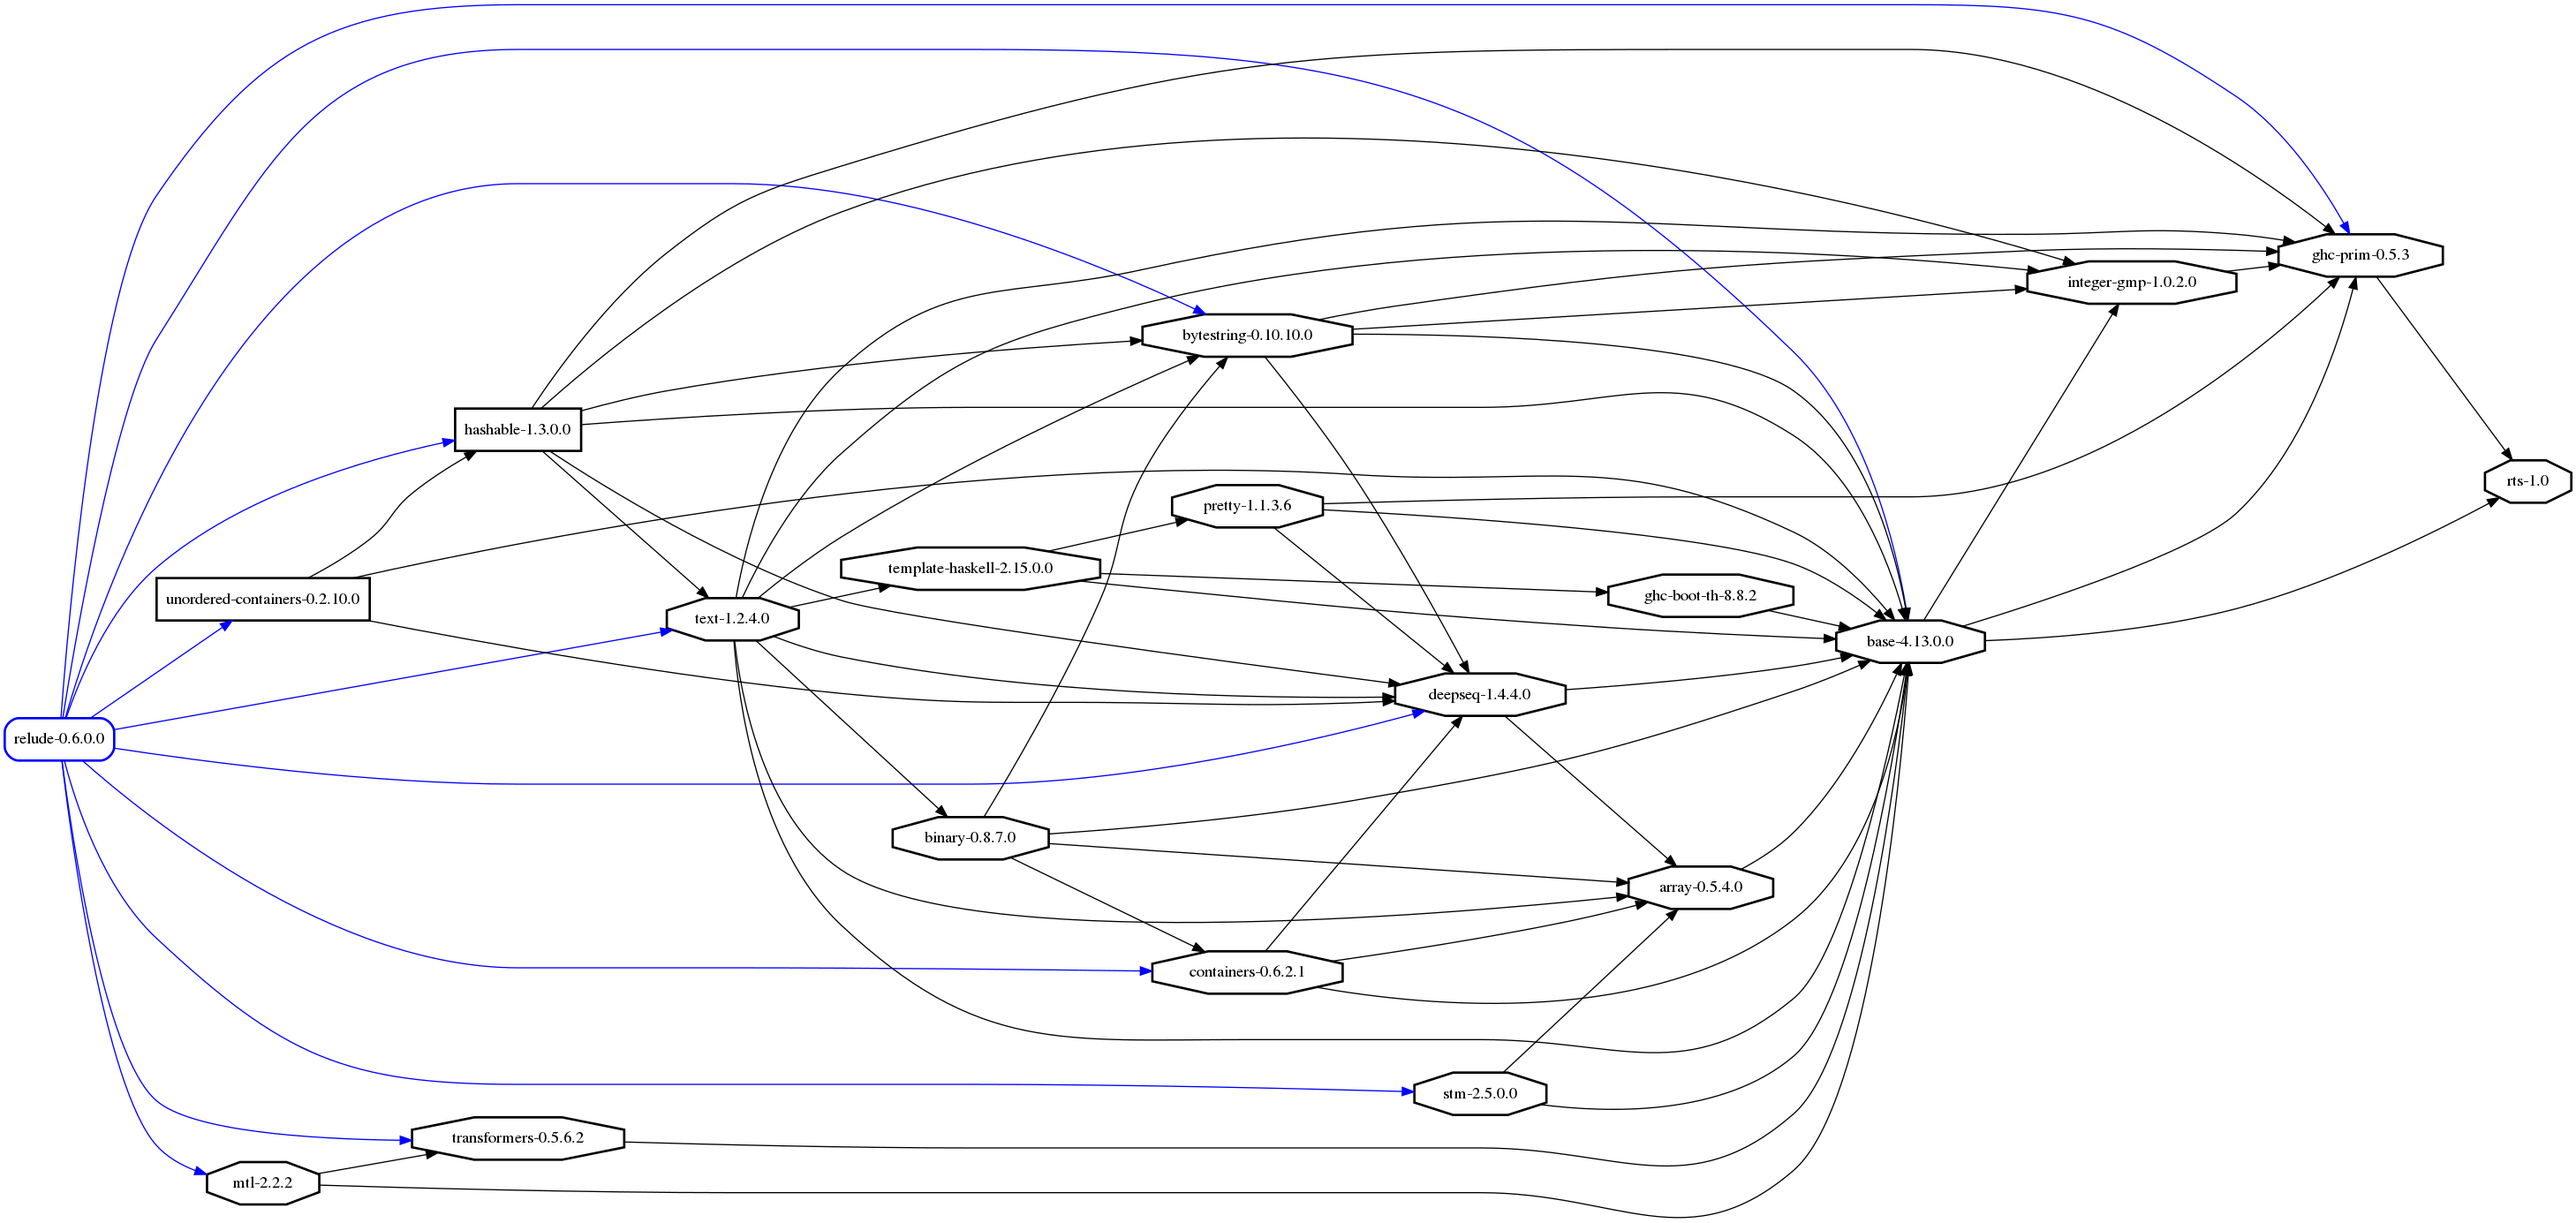
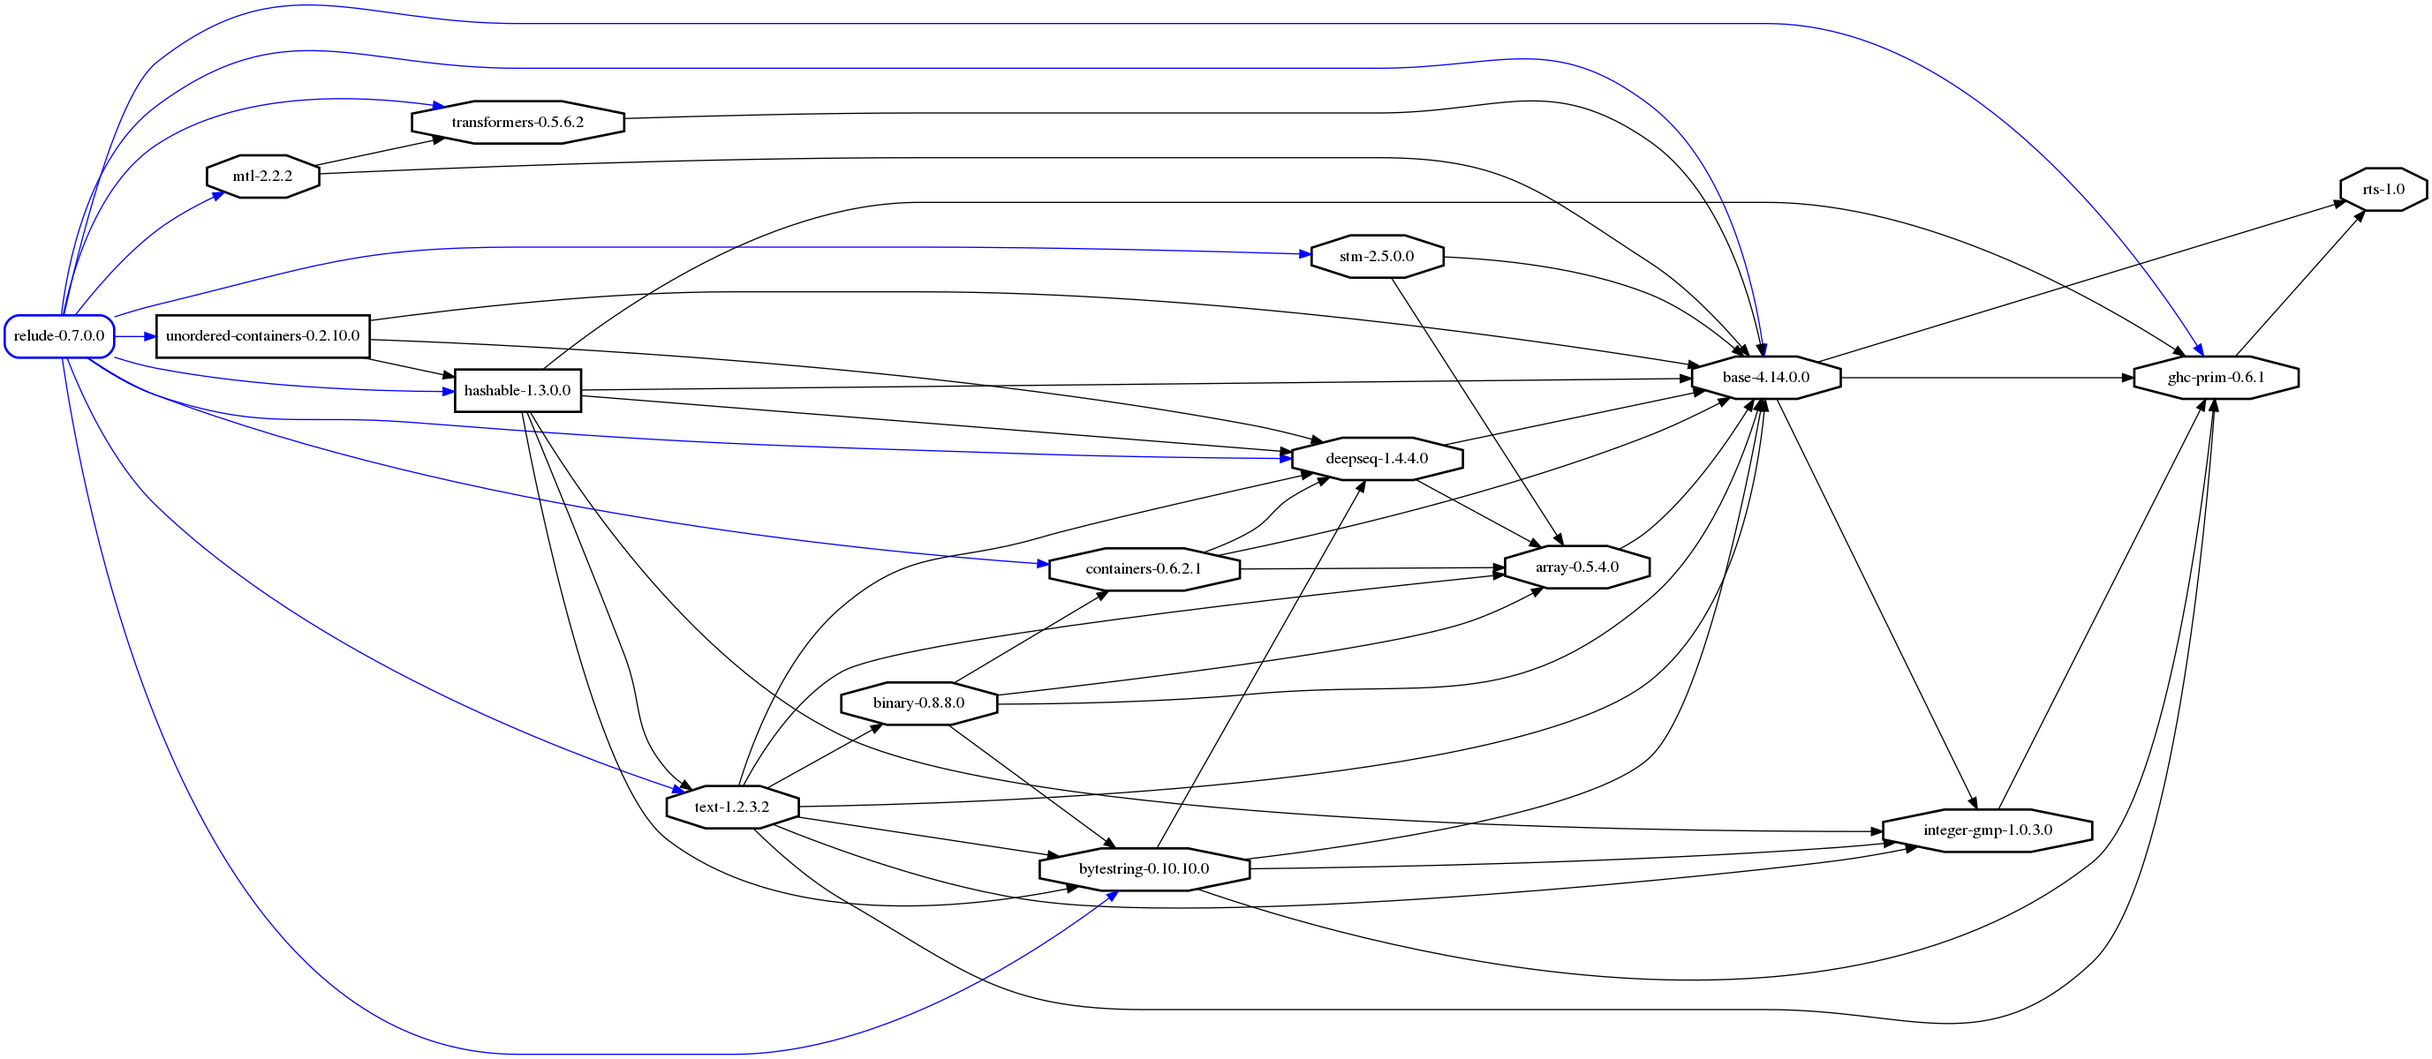
Update dependency graph, patch instructions (#298)

diff --git a/README.md b/README.md
@@ -660,7 +660,7 @@ For the latest `relude` version, this can be achieved by executing the following
 two commands on your CI:
 
 ```yaml
-curl https://raw.githubusercontent.com/kowainik/relude/v0.6.0.0/.hlint.yaml -o .hlint-relude.yaml
+curl https://raw.githubusercontent.com/kowainik/relude/v0.7.0.0/.hlint.yaml -o .hlint-relude.yaml
 curl -sSL https://raw.github.com/ndmitchell/neil/master/misc/travis.sh | sh -s -- hlint -h .hlint-relude.yaml .
 ```
 
@@ -742,7 +742,7 @@ Dhall 16.0.0 is required, so make sure that the previous command installed
 To generate `hlint` file:
 
 ```shell
-$ dhall-to-yaml --omitNull <<< './hlint/hlint.dhall' > .hlint.yaml
+$ dhall-to-yaml <<< './hlint/hlint.dhall' > .hlint.yaml
 ```
 
 Check that you have generated valid `.hlint.yaml` file without parse errors:
@@ -754,3 +754,19 @@ $ hlint test/Spec.hs
 See our blog post where we describe the details of the implementation for this solution:
 
 * [Dhall To HLint](https://kowainik.github.io/posts/2018-09-09-dhall-to-hlint)
+
+### Producing dependency graph
+
+Install `cabal-plan` first:
+
+```shell
+$ cabal v2-install cabal-plan
+$ cabal-plan --version
+cabal-plan 0.6.2.0
+```
+
+Then draw the graph only for the library dependencies:
+
+```shell
+cabal-plan dot --root lib:relude | dot -Tpng -o relude-dependency-graph.png
+```
